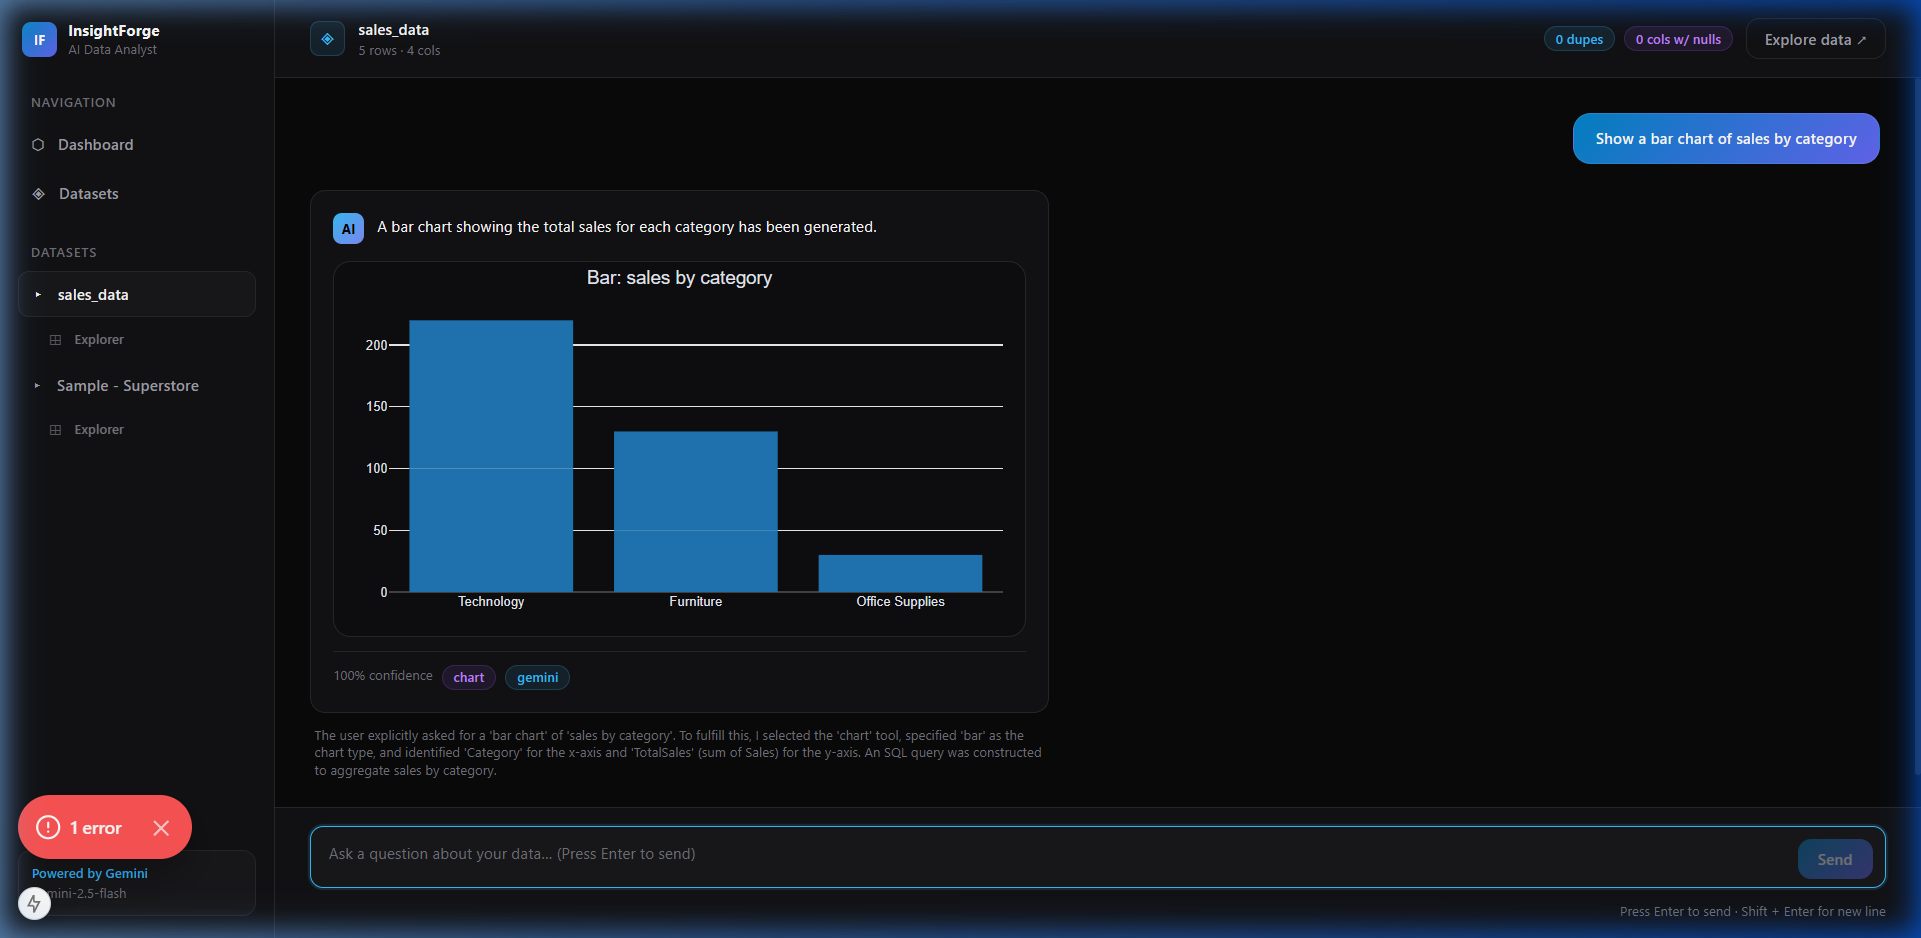
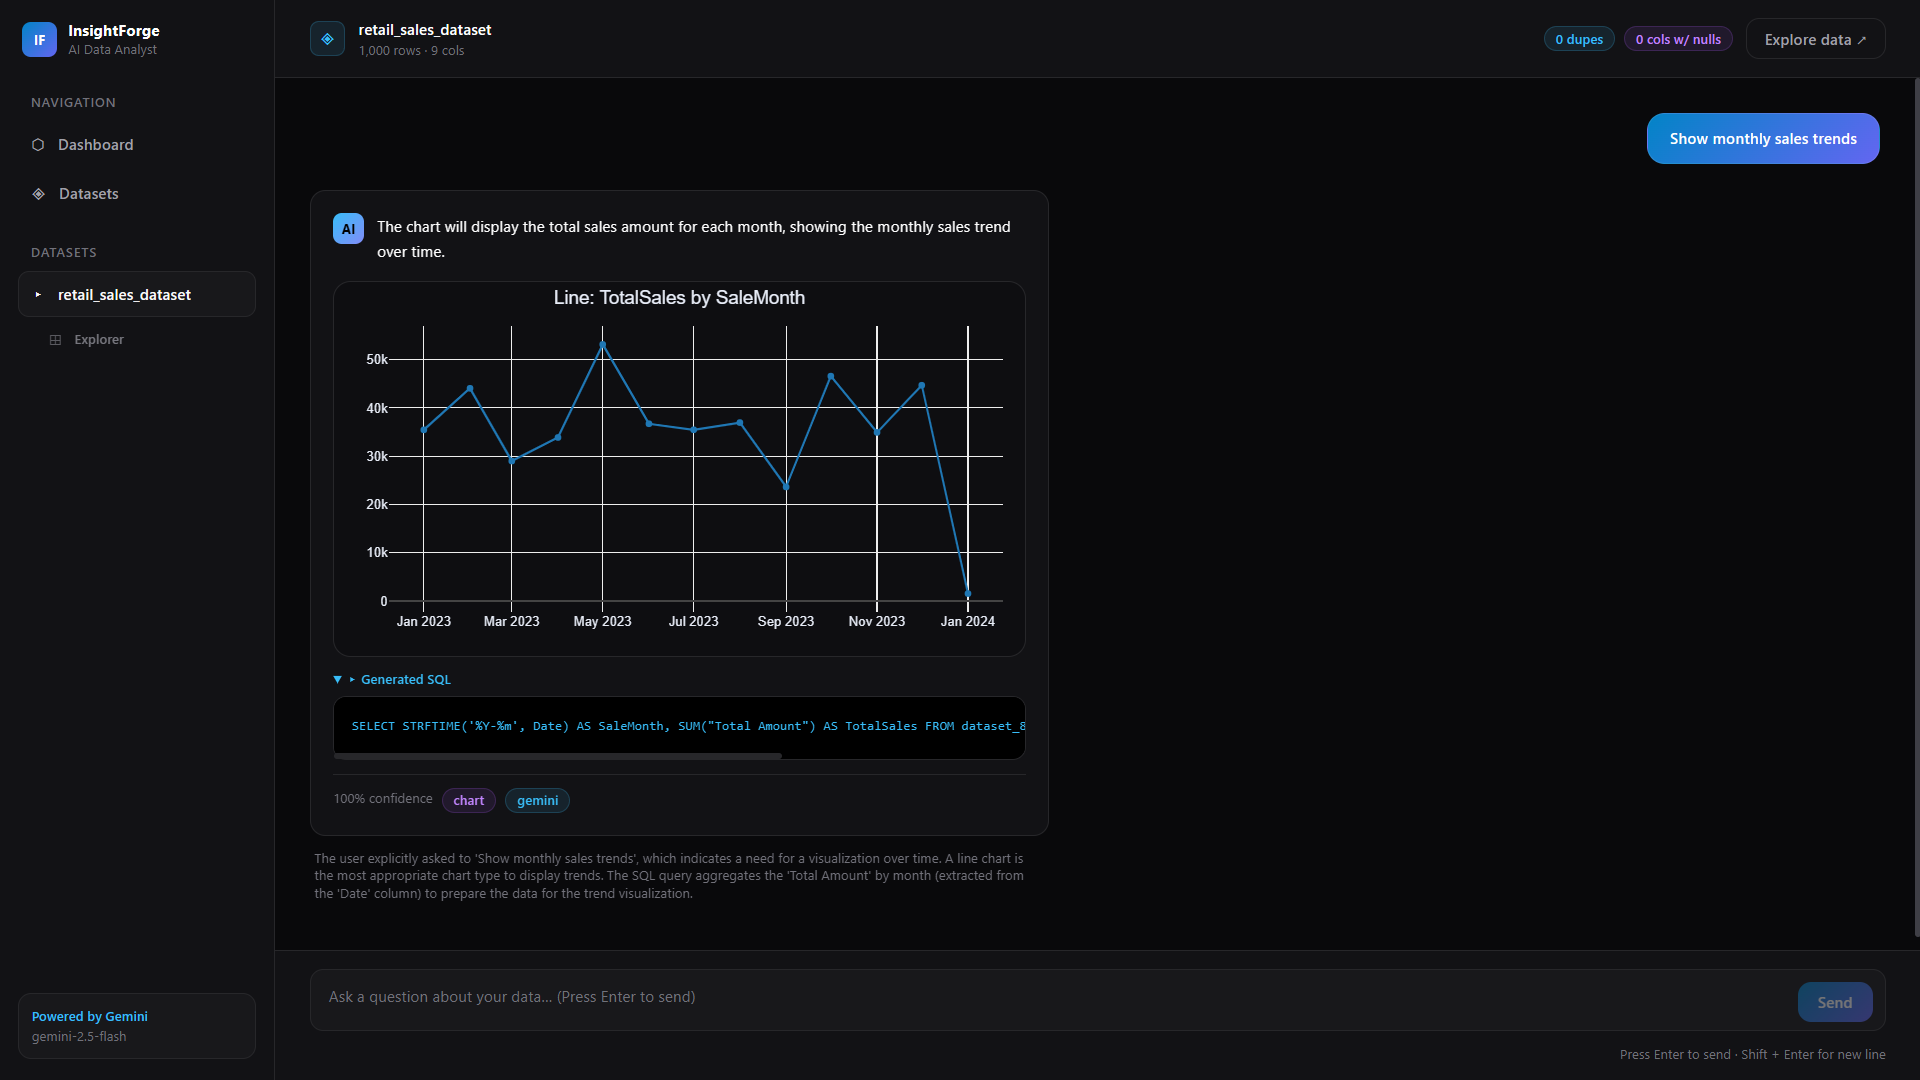
docs: overhaul README with comprehensive architecture diagrams and project documentation while adding interface screenshots

Changed region(s): [[0.0, 0.0, 1.0, 1.0], [0.1562, 0.1855, 0.5312, 0.6802], [0.1562, 0.7111, 0.5312, 0.8348]]

diff --git a/README.md b/README.md
@@ -1,71 +1,301 @@
-# InsightForge — AI Data Analyst
+# ⚡ InsightForge — AI Data Analyst
 
-Upload CSV data, inspect its quality, explore rows, ask questions, generate safe SQL/Pandas analysis, create charts, and find numeric anomalies.
+> An end-to-end, production-grade AI Data Analyst platform that enables users to upload CSV datasets, perform conversational natural language querying, execute sandboxed multi-table DuckDB SQL & AST-parsed Pandas code, visualize interactive charts, and run unsupervised machine learning anomaly detection.
 
-## Screenshots
+[![Live App](https://img.shields.io/badge/Live%20App-Vercel%20Deployment-blueviolet?style=for-the-badge&logo=vercel)](https://ai-data-analyst-fawn.vercel.app/)
+[![Loom Demo](https://img.shields.io/badge/Loom-Video%20Walkthrough-0080FF?style=for-the-badge&logo=loom)](https://www.loom.com/share/7bbcd8b9edd14c7ebe74c00b14aa0e15)
+[![Backend API](https://img.shields.io/badge/FastAPI-Python%203.10%2B-009688?style=for-the-badge&logo=fastapi)](https://fastapi.tiangolo.com/)
+[![Frontend](https://img.shields.io/badge/Next.js-14%20App%20Router-black?style=for-the-badge&logo=next.js)](https://nextjs.org/)
+[![License](https://img.shields.io/badge/License-MIT-green.svg?style=for-the-badge)](LICENSE)
 
-### Main Dashboard
-![Dashboard Screenshot](docs/screenshots/dashboard.png)
+---
 
-### Natural Language QA & Interactive Analysis
-![Analysis Screenshot](docs/screenshots/analysis.png)
+## 📌 Links & Live Resources
 
-## Architecture
+- **🌐 Live Production Deployment**: [https://ai-data-analyst-fawn.vercel.app/](https://ai-data-analyst-fawn.vercel.app/)
+- **🎥 Video Walkthrough (Loom)**: [Watch 10-30s Demo Video](https://www.loom.com/share/7bbcd8b9edd14c7ebe74c00b14aa0e15)
+
+---
+
+## 📸 Interface Preview & Screenshots
+
+### 1. Main Dashboard & Data Explorer
+Upload CSVs, inspect row previews, review data quality summary, and explore column schemas.
+
+![Main Dashboard](docs/screenshots/dashboard.png)
+
+### 2. Natural Language QA & Interactive Analysis
+Ask complex business questions, auto-generate SQL/Pandas code, view dynamic Recharts visualizations, and inspect Isolation Forest anomalies with step-by-step reasoning.
+
+![Natural Language QA](docs/screenshots/analysis.png)
+
+---
+
+## ✨ Key Features
+
+### 🟢 Core Features
+- **📁 Multi-File CSV Ingestion & Validation**: Drag-and-drop multiple CSV files simultaneously. Includes automated validation for empty files, malformed syntax, corrupt rows, and duplicate headers.
+- **💬 Conversational Data QA**: Ask natural language business questions (e.g. *"Which region generated highest revenue?"*, *"Show monthly sales trends"*). Session-based memory preserves context across multiple turns.
+- **🛢 Multi-Table DuckDB SQL Engine**: Uploaded CSVs are automatically registered as `dataset_<id>` in an in-memory DuckDB instance. Allows executing complex cross-table `JOIN` queries.
+- **🐼 Sandboxed Pandas Code Execution**: Auto-generates and executes Pandas data transformations securely via Python `ast` syntax tree parsing.
+- **📊 Dynamic Data Visualizations**: Automatic chart generation including **Bar**, **Line**, **Pie**, **Scatter**, and **Histogram** charts rendered interactively using Recharts.
+- **🤖 Unsupervised Anomaly Detection**: Uses `sklearn.ensemble.IsolationForest` to calculate anomaly scores across numerical features and highlight potential outliers with clear explanations.
+- **🧠 Chain-of-Thought Reasoning**: Answers include confidence scores, assumptions, limitations, and transparent explanations of execution logic.
+
+### 🌟 Bonus & Advanced Capabilities
+- **🔒 Dual AST & SQL Security Sandbox**: Strict AST parsing for Pandas (blocking imports, file I/O, `exec`/`eval`, dunder methods) and regex statement validation for DuckDB SQL (enforcing read-only `SELECT` queries).
+- **⚡ Dual-Engine Planner (Gemini + Deterministic Fallback)**: Powered by Google Gemini 2.5 Flash (`google-genai` SDK) with automatic failover to a zero-latency rule-based deterministic planner if no API key is set.
+- **📈 Data Profiling & Quality Metrics**: Generates dataset health profiles including missing percentage, data types, distinct counts, and numerical stats (mean, std, min, quantiles).
+- **📂 Pre-loaded Sample Datasets**: Comes bundled with ready-to-test datasets (`Sample Superstore.csv`, `retail_sales_dataset.csv`, `sales_data_sample.csv`).
+
+---
+
+## 🏗 System Architecture
 
 ```mermaid
-flowchart LR
-  UI[Next.js workspace] --> API[FastAPI API]
-  API --> Planner[Gemini / fallback planner]
-  Planner --> Tools[Profile · SQL · Pandas · Charts · Anomalies]
-  Tools --> Data[Pandas / DuckDB / Isolation Forest]
+flowchart TD
+  subgraph Frontend ["Frontend (Next.js 14 + Tailwind + Recharts)"]
+    UI["Web Dashboard UI"]
+    Upload["CSV Upload Component"]
+    ChatUI["Conversational QA Panel"]
+    ChartUI["Interactive Recharts Renderer"]
+  end
+
+  subgraph API ["Backend API (FastAPI)"]
+    Routes["API Router (/api/*)"]
+    Ingest["CSV Ingestion & Validation Service"]
+    Registry["In-Memory Dataset Registry"]
+    Memory["Session Context Memory"]
+  end
+
+  subgraph AI ["Agentic Planner"]
+    Planner["Gemini 2.5 Flash Planner Agent"]
+    Fallback["Deterministic Fallback Engine"]
+  end
+
+  subgraph Security ["Execution & Security Sandbox"]
+    SQLTool["DuckDB SQL Tool\n(Read-Only Regex Validator)"]
+    PandasTool["Pandas Execution Engine\n(AST Parsing & Expression Sandbox)"]
+    MLTool["Isolation Forest ML Engine\n(Numeric Anomaly Detection)"]
+  end
+
+  UI --> Routes
+  Upload --> Ingest --> Registry
+  ChatUI --> Routes --> Planner
+  Planner -- Gemini API Available --> AI
+  Planner -- API Offline / Fallback --> Fallback
+  AI --> Security
+  SQLTool --> Registry
+  PandasTool --> Registry
+  MLTool --> Registry
+  Security --> ChartUI
 ```
 
-The API routes are thin; ingestion, validation, memory, planner behavior, analytics, and execution are isolated services.
+---
 
-## Gemini and multi-file analysis
+## 🛡 Safety & AST Security Model
 
-Copy `backend/.env.example` to `backend/.env` and set `GEMINI_API_KEY` to enable Gemini 2.5 Flash. The planner receives table schemas, small samples, and the last 12 session messages, then selects a constrained local tool. It falls back to a deterministic planner if the key is absent or the request fails.
+Executing code generated by Large Language Models presents inherent security risks. InsightForge enforces a strict multi-layered sandbox:
 
-Every upload is registered as `dataset_<dataset-id>` in a shared in-memory DuckDB connection, so SQL generated by Gemini—or sent directly to `/api/generate-sql`—can join multiple uploaded CSVs.
+| Security Layer | Enforced Policy | Implementation Mechanism |
+| :--- | :--- | :--- |
+| **SQL Engine** | Single read-only `SELECT` statements strictly enforced. | Rejects statement chaining, semicolons, and mutating keywords (`INSERT`, `UPDATE`, `DELETE`, `DROP`, `ALTER`, `TRUNCATE`, `PRAGMA`). |
+| **Pandas Sandbox** | AST Expression Parsing with restricted global context. | Parses code into a syntax tree using `ast.parse`. Strips assignment statements, revokes `__builtins__`, blocks `import`, `open`, `os`, `sys`, `exec`, `eval`, `subprocess`, and dunder attributes. |
+| **LLM Execution Scope** | No direct execution permissions. | Gemini returns structured JSON tool intents. Code execution is passed down to validated internal tools only. |
+| **Data Isolation** | Session-level in-memory storage. | Datasets and conversation state reside purely in process memory; cleared automatically on server restart. |
 
-## Local setup
+---
 
-```bash
-cd backend
-python -m venv .venv
-.venv/Scripts/pip install -r requirements.txt
-.venv/Scripts/uvicorn app.main:app --reload
+## 🛠 Tech Stack & Tooling
 
-cd ../frontend
-npm install
-npm run dev
+| Domain | Technology / Library | Purpose |
+| :--- | :--- | :--- |
+| **Frontend Framework** | Next.js 14 (App Router) & TypeScript | Modern, performant UI with React Server Components |
+| **Styling & UI** | Tailwind CSS & Lucide Icons | Responsive, sleek, dark-mode-ready design system |
+| **Data Visualization** | Recharts | Responsive SVG charts (Bar, Line, Pie, Scatter) |
+| **Backend API** | FastAPI & Uvicorn | High-performance asynchronous Python REST web server |
+| **AI / LLM Orchestration**| Google Gemini 2.5 Flash (`google-genai`) | Low-latency agentic planning, natural language comprehension |
+| **SQL Engine** | DuckDB | In-process analytical database for multi-CSV JOINs |
+| **Data Science & ML** | Pandas, NumPy, Scikit-Learn | Data manipulation & Isolation Forest anomaly detection |
+| **Testing & CI** | Pytest | Automated test coverage for tools, analytics & routes |
+| **Containerization** | Docker & Docker Compose | Containerized full-stack deployment |
+
+---
+
+## 📁 Repository Directory Structure
+
+```
+AI Data Analyst/
+├── README.md                                 # Documentation & Project Guide
+├── AI Engineer Intern Assignment.docx (1).pdf # Project Requirements Specification
+├── docker-compose.yml                        # Docker Compose configuration
+├── datasets/                                 # Sample CSV Datasets
+│   ├── Sample Superstore.csv
+│   ├── retail_sales_dataset.csv
+│   └── sales_data_sample.csv
+├── docs/
+│   └── screenshots/                          # Dashboard & QA Screenshots
+│       ├── dashboard.png
+│       └── analysis.png
+├── backend/                                  # FastAPI Application
+│   ├── Dockerfile
+│   ├── requirements.txt
+│   ├── conftest.py
+│   ├── app/
+│   │   ├── main.py                           # FastAPI entrypoint & CORS config
+│   │   ├── config.py                         # Environment variables configuration
+│   │   ├── api/                              # REST API Route controllers
+│   │   ├── agents/                           # Gemini & Deterministic Planner Agents
+│   │   ├── analytics/                        # Profiler & Isolation Forest Anomaly Detection
+│   │   ├── charts/                           # Chart factory & Plotly/Recharts spec builder
+│   │   ├── database/                         # DuckDB dataset registry
+│   │   ├── memory/                           # Session conversation memory store
+│   │   ├── schemas/                          # Pydantic data contracts & DTOs
+│   │   ├── services/                         # CSV Ingestion & validation pipeline
+│   │   └── tools/                            # AST-sandboxed Pandas & SQL execution tools
+│   └── tests/                                # Automated Pytest test suite
+└── frontend/                                 # Next.js Application
+    ├── Dockerfile
+    ├── package.json
+    ├── tailwind.config.ts
+    ├── app/                                  # Next.js App Router pages (analyse, explore, datasets)
+    ├── components/                           # UI Components (Sidebar, UploadPanel, DataTable, Chart)
+    ├── services/                             # Frontend API Client services
+    └── store/                                # Global state management
 ```
 
-Open `http://localhost:3000`; API documentation is at `http://localhost:8000/docs`.
+---
 
-## Safety and assumptions
+## 🚀 Local Setup & Quickstart
 
-- CSVs are validated for file type, empty input, malformed parsing, and duplicate headers.
-- DuckDB accepts only one read-only `SELECT` statement.
-- Pandas is AST-parsed, expression-only, and blocks imports, files, network calls, dunder attributes, and arbitrary execution.
-- The LLM proposes plans but never receives direct execution rights.
-- Datasets and session memory are in process memory and are cleared on API restart.
+### Prerequisites
+- **Python**: `3.10` or higher
+- **Node.js**: `18.x` or higher
+- **npm** or **yarn**
+- *(Optional)* **Docker Desktop**
 
-## Demo video
+### 1. Backend Setup
 
-Add your 10–30 second walkthrough link here before submission: [Demo Video Link](https://example.com/your-demo-video). Show CSV upload, profile, multi-file join, chart, and anomaly detection.
+1. Navigate to the backend directory:
+   ```bash
+   cd backend
+   ```
+2. Create and activate a Python virtual environment:
+   ```bash
+   # Windows (PowerShell)
+   python -m venv .venv
+   .\.venv\Scripts\Activate.ps1
 
-## Docker and tests
+   # macOS / Linux
+   python3 -m venv .venv
+   source .venv/bin/activate
+   ```
+3. Install dependencies:
+   ```bash
+   pip install -r requirements.txt
+   ```
+4. Create environment file:
+   ```bash
+   cp .env.example .env
+   ```
+   *Optionally set your `GEMINI_API_KEY` in `.env` to enable Gemini 2.5 Flash capabilities. If left blank, the app will run seamlessly using the built-in deterministic planner agent.*
 
-Run tests with `pytest`:
+5. Start the FastAPI development server:
+   ```bash
+   uvicorn app.main:app --reload --port 8000
+   ```
+   - API Endpoint: `http://localhost:8000`
+   - Interactive Swagger API Documentation: `http://localhost:8000/docs`
+
+---
+
+### 2. Frontend Setup
+
+1. In a new terminal window, navigate to the frontend directory:
+   ```bash
+   cd frontend
+   ```
+2. Install dependencies:
+   ```bash
+   npm install
+   ```
+3. Create environment file:
+   ```bash
+   cp .env.example .env
+   ```
+4. Start the Next.js development server:
+   ```bash
+   npm run dev
+   ```
+5. Open your browser and navigate to `http://localhost:3000`.
+
+---
+
+## 🐳 Docker Deployment
+
+To launch the complete application stack (Backend + Frontend) in containerized environment:
 
 ```bash
-cd backend
-pytest
-```
-
-Run full stack with Docker Compose:
-
-```bash
+# Build and run containerized services
 docker compose up --build
 ```
+
+Access services at:
+- **Frontend App**: `http://localhost:3000`
+- **Backend API**: `http://localhost:8000`
+- **Swagger Docs**: `http://localhost:8000/docs`
+
+---
+
+## 🧪 Running Tests
+
+The backend includes comprehensive test coverage using `pytest` for unit testing tool execution, AST sandboxing, CSV ingestion, and route controllers.
+
+```bash
+cd backend
+pytest -v
+```
+
+---
+
+## 📡 API Endpoint Reference
+
+| Endpoint | Method | Request Body / Query | Description |
+| :--- | :--- | :--- | :--- |
+| `/health` | `GET` | None | Service health check |
+| `/api/upload` | `POST` | `multipart/form-data` (files) | Upload and validate single/multiple CSV files |
+| `/api/datasets` | `GET` | None | List all currently registered datasets |
+| `/api/datasets/{id}` | `DELETE` | Path parameter | Remove a specific dataset from memory |
+| `/api/datasets/{id}/profile` | `GET` | Path parameter | Return statistical profile and column metadata |
+| `/api/datasets/{id}/rows` | `GET` | `offset`, `limit`, `search` | Paginated row preview with substring filtering |
+| `/api/chat` | `POST` | `ChatRequest` (session_id, dataset_id, message) | Natural language QA handled by Gemini Agent |
+| `/api/generate-sql` | `POST` | `SqlRequest` (dataset_id, query) | Direct read-only SQL query execution via DuckDB |
+| `/api/generate-pandas` | `POST` | `PandasRequest` (dataset_id, code) | Direct sandboxed Pandas AST expression execution |
+| `/api/generate-chart` | `POST` | `ChartRequest` (dataset_id, chart_type, x, y) | Generate chart specification |
+| `/api/detect-anomalies` | `POST` | `dataset_id` (Query string) | Trigger Isolation Forest ML anomaly detection |
+
+---
+
+## ✅ Assignment Requirement Compliance Matrix
+
+| Requirement (PDF Specification) | Implementation Status | Implementation Details in Codebase |
+| :--- | :---: | :--- |
+| **CSV Upload & Validation** | ✅ Complete | `CsvIngestionService` ([ingestion.py](file:///c:/Users/manan/OneDrive/Documents/AI%20Data%20Analyst/backend/app/services/ingestion.py)) checks encoding, empty files, malformed rows, duplicate headers. |
+| **Natural Language QA** | ✅ Complete | `GeminiPlannerAgent` ([planner.py](file:///c:/Users/manan/OneDrive/Documents/AI%20Data%20Analyst/backend/app/agents/planner.py)) parses NL prompts into structured tool calls. |
+| **Insights & Summaries** | ✅ Complete | Business summaries, key metrics, and profile metadata generated via `ProfileService` ([profiler.py](file:///c:/Users/manan/OneDrive/Documents/AI%20Data%20Analyst/backend/app/analytics/profiler.py)). |
+| **Interactive Charting** | ✅ Complete | `ChartFactory` ([factory.py](file:///c:/Users/manan/OneDrive/Documents/AI%20Data%20Analyst/backend/app/charts/factory.py)) & Recharts components ([Chart.tsx](file:///c:/Users/manan/OneDrive/Documents/AI%20Data%20Analyst/frontend/components/Chart.tsx)). |
+| **SQL & Pandas Generation** | ✅ Complete | Sandboxed tools `SqlTool` ([sql_tool.py](file:///c:/Users/manan/OneDrive/Documents/AI%20Data%20Analyst/backend/app/tools/sql_tool.py)) & `PandasTool` ([pandas_tool.py](file:///c:/Users/manan/OneDrive/Documents/AI%20Data%20Analyst/backend/app/tools/pandas_tool.py)). |
+| **Anomaly Detection** | ✅ Complete | `AnomalyService` ([anomalies.py](file:///c:/Users/manan/OneDrive/Documents/AI%20Data%20Analyst/backend/app/analytics/anomalies.py)) uses `IsolationForest` ML with explanations. |
+| **Reasoning & Explanations** | ✅ Complete | Chain-of-thought responses return confidence, reasoning, assumptions, and limitations. |
+| **Session Memory Context** | ✅ Complete | `SessionMemory` ([session.py](file:///c:/Users/manan/OneDrive/Documents/AI%20Data%20Analyst/backend/app/memory/session.py)) tracks chat history per session ID. |
+| **Bonus: Multi-File Analysis** | ✅ Complete | DuckDB multi-table connection enables `JOIN` queries across multiple CSV tables. |
+| **Bonus: Docker Support** | ✅ Complete | [docker-compose.yml](file:///c:/Users/manan/OneDrive/Documents/AI%20Data%20Analyst/docker-compose.yml) containerizes both frontend & backend. |
+| **Bonus: Sample Datasets** | ✅ Complete | Included under [datasets/](file:///c:/Users/manan/OneDrive/Documents/AI%20Data%20Analyst/datasets/). |
+
+---
+
+## 🤝 Contact & Credits
+
+- **Developer**: Manan
+- **Live App**: [https://ai-data-analyst-fawn.vercel.app/](https://ai-data-analyst-fawn.vercel.app/)
+- **Loom Walkthrough**: [https://www.loom.com/share/7bbcd8b9edd14c7ebe74c00b14aa0e15](https://www.loom.com/share/7bbcd8b9edd14c7ebe74c00b14aa0e15)
